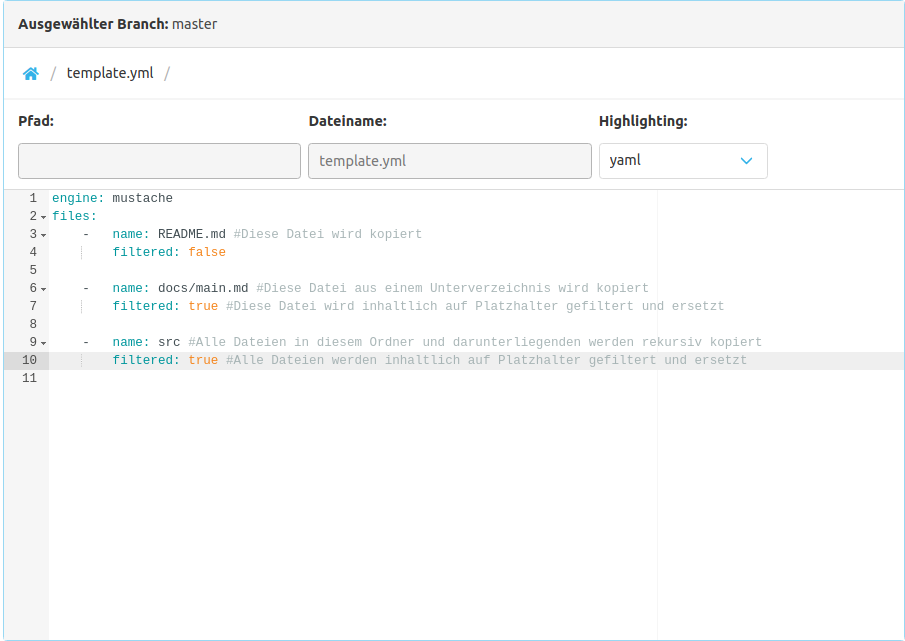
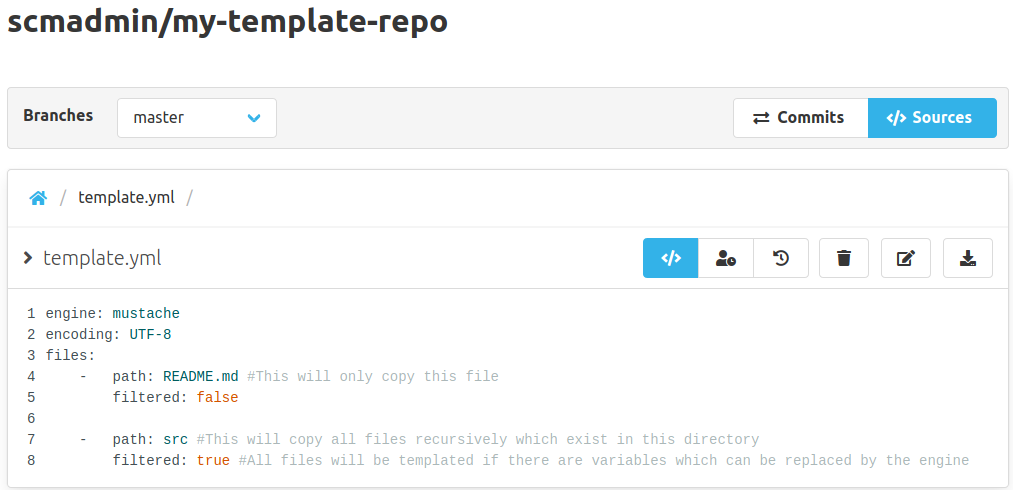
refactor

diff --git a/src/main/java/com/cloudogu/scm/repositorytemplate/RepositoryTemplater.java b/src/main/java/com/cloudogu/scm/repositorytemplate/RepositoryTemplater.java
@@ -23,16 +23,16 @@
  */
 package com.cloudogu.scm.repositorytemplate;
 
+import com.google.common.base.Strings;
+import lombok.AllArgsConstructor;
 import org.slf4j.Logger;
 import org.slf4j.LoggerFactory;
 import org.yaml.snakeyaml.Yaml;
 import org.yaml.snakeyaml.constructor.CustomClassLoaderConstructor;
-import org.yaml.snakeyaml.error.YAMLException;
 import sonia.scm.ContextEntry;
 import sonia.scm.NotFoundException;
 import sonia.scm.repository.BrowserResult;
 import sonia.scm.repository.FileObject;
-import sonia.scm.repository.InternalRepositoryException;
 import sonia.scm.repository.Repository;
 import sonia.scm.repository.RepositoryContentInitializer.InitializerContext;
 import sonia.scm.repository.api.RepositoryService;
@@ -49,7 +49,7 @@ import java.io.InputStream;
 import java.io.InputStreamReader;
 import java.io.OutputStreamWriter;
 import java.io.Reader;
-import java.nio.charset.StandardCharsets;
+import java.nio.charset.Charset;
 import java.util.Collections;
 import java.util.Optional;
 
@@ -72,9 +72,7 @@ public class RepositoryTemplater {
 
   public void render(Repository template, InitializerContext context) {
     this.context = context;
-    try (
-      RepositoryService templateService = repositoryServiceFactory.create(template);
-    ) {
+    try (RepositoryService templateService = repositoryServiceFactory.create(template)) {
       render(templateService);
     } catch (IOException e) {
       LOG.error("could not use template on new repository", e);
@@ -84,12 +82,22 @@ public class RepositoryTemplater {
   private void render(RepositoryService templateService) throws IOException {
     RepositoryTemplate repositoryTemplate = parseTemplateConfig(templateService);
     TemplateEngine engine = setupTemplateEngine(repositoryTemplate);
-    TemplateFilter templateFilter = new TemplateFilter(context, engine, templateService.getRepository());
+    String encoding = !Strings.isNullOrEmpty(repositoryTemplate.getEncoding()) ? repositoryTemplate.getEncoding() : "UTF-8";
+    TemplateFilter templateFilter = new TemplateFilter(new TemplateFilterModel(context.getRepository()), engine, encoding);
 
     for (RepositoryTemplateFile templateFile : repositoryTemplate.getFiles()) {
-      BrowserResult result = templateService.getBrowseCommand().setPath(templateFile.getName()).setRecursive(true).getBrowserResult();
+      String filePath = removeLeadingSlashOnFilepath(templateFile);
+      BrowserResult result = templateService.getBrowseCommand().setPath(filePath).setRecursive(true).getBrowserResult();
       copyFileRecursively(templateService, templateFilter, templateFile, result.getFile());
     }
+  }
+
+  private String removeLeadingSlashOnFilepath(RepositoryTemplateFile templateFile) {
+    String filePath = templateFile.getPath();
+    if (templateFile.getPath().startsWith("/")) {
+      filePath = templateFile.getPath().substring(1);
+    }
+    return filePath;
   }
 
   private void copyFileRecursively(RepositoryService templateService, TemplateFilter filter, RepositoryTemplateFile templateFile, FileObject file) throws IOException {
@@ -151,37 +159,50 @@ public class RepositoryTemplater {
   private RepositoryTemplate unmarshallRepositoryTemplate(String templateFile, InputStream templateYml) {
     RepositoryTemplate repositoryTemplate = yaml.loadAs(templateYml, RepositoryTemplate.class);
     if (repositoryTemplate == null) {
-      throw new YAMLException("repository template invalid -> could not parse " + templateFile);
+      throwTemplateParsingException(templateFile);
     }
     return repositoryTemplate;
+
+  }
+
+  private void throwTemplateParsingException(String templateFile) {
+    throw new TemplateParsingException(
+      ContextEntry.ContextBuilder.entity(RepositoryTemplate.class, templateFile).build(),
+      "repository template invalid -> could not parse " + templateFile
+    );
   }
 
   static class TemplateFilter {
-    private final InitializerContext context;
+    private final TemplateFilterModel model;
     private final TemplateEngine engine;
-    private final Repository templateRepository;
+    private final String encoding;
 
-    private TemplateFilter(InitializerContext context, TemplateEngine engine, Repository templateRepository) {
-      this.context = context;
+    private TemplateFilter(TemplateFilterModel model, TemplateEngine engine, String encoding) {
+      this.model = model;
       this.engine = engine;
-      this.templateRepository = templateRepository;
+      this.encoding = encoding;
     }
 
     private ByteArrayOutputStream filter(InputStream inputStream, String filePath) {
       try (Reader content = new InputStreamReader(inputStream)) {
         Template template = engine.getTemplate(filePath, content);
         ByteArrayOutputStream baos = new ByteArrayOutputStream();
-        OutputStreamWriter writer = new OutputStreamWriter(baos, StandardCharsets.UTF_8);
-        template.execute(writer, context.getRepository());
+        OutputStreamWriter writer = new OutputStreamWriter(baos, Charset.forName(encoding));
+        template.execute(writer, model);
         writer.flush();
         return baos;
       } catch (IOException ex) {
-        throw new InternalRepositoryException(
-          ContextEntry.ContextBuilder.entity(Repository.class, templateRepository.getId()),
-          "could not read file from repository: " + filePath,
+        throw new TemplateRenderingException(
+          ContextEntry.ContextBuilder.entity(RepositoryTemplateFile.class, filePath).build(),
+          "could not template " + filePath,
           ex
         );
       }
     }
+  }
+
+  @AllArgsConstructor
+  static class TemplateFilterModel {
+    private final Repository repository;
   }
 }

diff --git a/src/test/java/com/cloudogu/scm/repositorytemplate/RepositoryTemplatedContentInitializerTest.java b/src/test/java/com/cloudogu/scm/repositorytemplate/RepositoryTemplatedContentInitializerTest.java
@@ -23,8 +23,6 @@
  */
 package com.cloudogu.scm.repositorytemplate;
 
-import com.fasterxml.jackson.databind.JsonNode;
-import com.fasterxml.jackson.databind.node.TextNode;
 import org.junit.jupiter.api.Test;
 import org.junit.jupiter.api.extension.ExtendWith;
 import org.mockito.InjectMocks;
@@ -36,9 +34,9 @@ import sonia.scm.repository.RepositoryContentInitializer;
 import sonia.scm.repository.RepositoryManager;
 import sonia.scm.repository.RepositoryTestData;
 
-import java.util.HashMap;
-import java.util.Map;
+import java.util.Optional;
 
+import static com.cloudogu.scm.repositorytemplate.RepositoryTemplatedContentInitializer.TemplateContext;
 import static org.mockito.Mockito.verify;
 import static org.mockito.Mockito.when;
 
@@ -59,10 +57,8 @@ class RepositoryTemplatedContentInitializerTest {
 
   @Test
   void shouldInitializeRepository() {
-    Map<String, JsonNode> creationContext = new HashMap<>();
-    TextNode templateId = new TextNode("hitchhiker/heartOfGold");
-    creationContext.put("templateId", templateId);
-    when(context.getCreationContext()).thenReturn(creationContext);
+    TemplateContext templateContext = new TemplateContext("hitchhiker/heartOfGold");
+    when(context.getCreationContext("templateId", TemplateContext.class)).thenReturn(Optional.of(templateContext));
     when(repositoryManager.get(new NamespaceAndName("hitchhiker", "heartOfGold"))).thenReturn(TEMPLATE_REPOSITORY);
 
     initializer.initialize(context);

diff --git a/src/main/java/com/cloudogu/scm/repositorytemplate/RepositoryTemplatedContentInitializer.java b/src/main/java/com/cloudogu/scm/repositorytemplate/RepositoryTemplatedContentInitializer.java
@@ -24,6 +24,8 @@
 package com.cloudogu.scm.repositorytemplate;
 
 import com.fasterxml.jackson.databind.node.TextNode;
+import lombok.AllArgsConstructor;
+import lombok.Getter;
 import sonia.scm.plugin.Extension;
 import sonia.scm.repository.NamespaceAndName;
 import sonia.scm.repository.Repository;
@@ -47,17 +49,18 @@ public class RepositoryTemplatedContentInitializer implements RepositoryContentI
 
   @Override
   public void initialize(InitializerContext context) {
-    TextNode repositoryModel = (TextNode) context.getCreationContext().get("templateId");
-    if (repositoryModel != null) {
-      String[] splitRepository = repositoryModel.asText().split("/");
+    Optional<TemplateContext> repositoryModel = context.getCreationContext("templateId", TemplateContext.class);
+    if (repositoryModel.isPresent()) {
+      String[] splitRepository = repositoryModel.get().getNamespaceAndName().split("/");
       Repository templateRepository = repositoryManager.get(new NamespaceAndName(splitRepository[0], splitRepository[1]));
       templater.render(templateRepository, context);
     }
   }
 
-  @Override
-  public Optional<Class<?>> getType() {
-    // We will need this later if we add more fields to the templateFilterModel
-    return Optional.empty();
+  @Getter
+  @AllArgsConstructor
+  static
+  class TemplateContext {
+    private String namespaceAndName;
   }
 }

diff --git a/src/main/java/com/cloudogu/scm/repositorytemplate/RepositoryTemplateCollector.java b/src/main/java/com/cloudogu/scm/repositorytemplate/RepositoryTemplateCollector.java
@@ -114,15 +114,13 @@ public class RepositoryTemplateCollector {
   }
 
   private boolean wasTemplateFileEffected(PostReceiveRepositoryHookEvent event, RepositoryService repositoryService) throws IOException {
-    boolean clearCache = false;
     for (Changeset changeset : event.getContext().getChangesetProvider().getChangesets()) {
       List<String> changedFiles = repositoryService.getModificationsCommand().revision(changeset.getId()).getModifications().getEffectedPaths();
-      clearCache = changedFiles.contains(TEMPLATE_YML) || changedFiles.contains(TEMPLATE_YAML);
-      if (clearCache) {
-        break;
+      if (changedFiles.contains(TEMPLATE_YML) || changedFiles.contains(TEMPLATE_YAML)) {
+        return true;
       }
     }
-    return clearCache;
+    return false;
   }
 
   private void filterTemplatesByUserPermission(Collection<RepositoryTemplate> repositoryTemplates) {

diff --git a/src/main/java/com/cloudogu/scm/repositorytemplate/TemplateRenderingException.java b/src/main/java/com/cloudogu/scm/repositorytemplate/TemplateRenderingException.java
@@ -23,16 +23,21 @@
  */
 package com.cloudogu.scm.repositorytemplate;
 
-import lombok.AllArgsConstructor;
-import lombok.Getter;
-import lombok.NoArgsConstructor;
-import lombok.Setter;
+import sonia.scm.ContextEntry;
+import sonia.scm.ExceptionWithContext;
 
-@AllArgsConstructor
-@NoArgsConstructor
-@Getter
-@Setter
-public class RepositoryTemplateFile {
-  private String path;
-  private boolean filtered;
+import java.util.List;
+
+public class TemplateRenderingException extends ExceptionWithContext {
+
+  private static final String CODE = "4JSA4ucU51";
+
+  public TemplateRenderingException(List<ContextEntry> context, String message, Exception cause) {
+    super(context, message, cause);
+  }
+
+  @Override
+  public String getCode() {
+    return CODE;
+  }
 }

diff --git a/src/main/java/com/cloudogu/scm/repositorytemplate/TemplateParsingException.java b/src/main/java/com/cloudogu/scm/repositorytemplate/TemplateParsingException.java
@@ -23,16 +23,21 @@
  */
 package com.cloudogu.scm.repositorytemplate;
 
-import lombok.AllArgsConstructor;
-import lombok.Getter;
-import lombok.NoArgsConstructor;
-import lombok.Setter;
+import sonia.scm.ContextEntry;
+import sonia.scm.ExceptionWithContext;
 
-@AllArgsConstructor
-@NoArgsConstructor
-@Getter
-@Setter
-public class RepositoryTemplateFile {
-  private String path;
-  private boolean filtered;
+import java.util.List;
+
+public class TemplateParsingException extends ExceptionWithContext {
+
+  private static final String CODE = "ErSA4q8eJ1";
+
+  public TemplateParsingException(List<ContextEntry> context, String message) {
+    super(context, message);
+  }
+
+  @Override
+  public String getCode() {
+    return CODE;
+  }
 }

diff --git a/src/test/java/com/cloudogu/scm/repositorytemplate/RepositoryTemplateCollectorTest.java b/src/test/java/com/cloudogu/scm/repositorytemplate/RepositoryTemplateCollectorTest.java
@@ -179,8 +179,8 @@ class RepositoryTemplateCollectorTest {
     assertThat(templates).hasSize(1);
     RepositoryTemplate template = templates.iterator().next();
     assertThat(template.getEngine()).isEqualTo("hitchhiker");
-    assertThat(template.getFiles().get(0).getName()).isEqualTo(".gitignore");
-    assertThat(template.getFiles().get(1).getName()).isEqualTo("Jenkinsfile");
+    assertThat(template.getFiles().get(0).getPath()).isEqualTo(".gitignore");
+    assertThat(template.getFiles().get(1).getPath()).isEqualTo("Jenkinsfile");
     assertThat(template.getNamespaceAndName()).isEqualTo(REPOSITORY.getNamespaceAndName().toString());
   }
 

diff --git a/src/test/java/com/cloudogu/scm/repositorytemplate/RepositoryTemplaterTest.java b/src/test/java/com/cloudogu/scm/repositorytemplate/RepositoryTemplaterTest.java
@@ -102,10 +102,10 @@ class RepositoryTemplaterTest {
   }
 
   @Test
-  void shouldThrowYamlExceptionIfTemplateFileCouldNotBeParsed() throws IOException {
+  void shouldThrowTemplateParsingExceptionIfTemplateFileCouldNotBeParsed() throws IOException {
     mockTemplateService("com/cloudogu/scm/repositorytemplate/empty_template.yml");
 
-    assertThrows(YAMLException.class, () -> repositoryTemplater.render(TEMPLATE_REPOSITORY, context));
+    assertThrows(TemplateParsingException.class, () -> repositoryTemplater.render(TEMPLATE_REPOSITORY, context));
   }
 
   @Test

diff --git a/src/main/java/com/cloudogu/scm/repositorytemplate/RepositoryTemplateFinder.java b/src/main/java/com/cloudogu/scm/repositorytemplate/RepositoryTemplateFinder.java
@@ -49,8 +49,8 @@ public class RepositoryTemplateFinder {
 
   private static boolean fileExists(RepositoryService repositoryService, String templateYml) throws IOException {
     try {
-    return repositoryService.getBrowseCommand().setPath(templateYml).getBrowserResult() != null; }
-    catch (NotFoundException e) {
+      return repositoryService.getBrowseCommand().setPath(templateYml).getBrowserResult() != null;
+    } catch (NotFoundException e) {
       return false;
     }
   }

diff --git a/src/main/java/com/cloudogu/scm/repositorytemplate/RepositoryTemplate.java b/src/main/java/com/cloudogu/scm/repositorytemplate/RepositoryTemplate.java
@@ -35,6 +35,7 @@ import java.util.List;
 public class RepositoryTemplate {
   private String namespaceAndName;
   private String engine;
+  private String encoding;
   private List<RepositoryTemplateFile> files;
 
   public RepositoryTemplate(String namespaceAndName) {

diff --git a/docs/de/usage/index.md b/docs/de/usage/index.md
@@ -3,12 +3,31 @@ title: Usage
 ---
 Um ein Repository als Vorlage nutzen zu können, muss innerhalb des Repository eine `template.yml` 
 im Root Verzeichnis des Main Branches angelegt werden. Diese `template.yml` definiert welche Dateien 
-aus dem Vorlage-Repository kopiert werden sollen und welche Engine zum Verarbeiten des Dateiinhalts werden soll. Die Engine
-ersetzt Platzhalter beim Kopieren durch den entsprechenden Wert aus dem Kontext. 
-Die Standard Engine ist [mustache](https://mustache.github.io/) falls keine andere ausgewählt wurde.
+aus dem Vorlage-Repository kopiert werden sollen und welche Engine zum Verarbeiten des Dateiinhalts verwendet werden soll. 
+Die Engine ersetzt Platzhalter beim Kopieren durch den entsprechenden Wert aus dem Kontext. 
+
+Die Standard Engine ist [mustache](https://mustache.github.io/) und das Standard Encoding ist `UTF-8`, 
+falls keine andere Werte gesetzt wurde.
+
+Die Template Yaml muss ein Feld `files` enthalten, wo Dateien als Array angegeben werden.
+Eine einzelne Datei muss die Felder `path` (Pfad innerhalb des Vorlagen-Repository) 
+und `filtered` (soll der Inhalt der Datei templated werden). Wird bei `path` ein Verzeichnis angegeben, 
+werden alle Datei innerhalb dieses Verzeichnisses kopiert und getemplated.
+Optional können noch eine Template Engine und ein Encoding angegeben werden.
+
+Beispiel:
+```yaml 
+engine: mustache
+encoding: UTF-8
+files: 
+    -   path: README.md
+        filtered: true
+    -   path: src/main
+        filtered: false
+```
 
 ![Template](assets/template.png)
 
-Nachdem ein Repository als Vorlage definiert wurde, kann man für die Initialisierung bei der Repository Erstellung auswählen.
+Nachdem ein Repository als Vorlage definiert wurde, kann man es für die Initialisierung bei der Repository Erstellung auswählen.
 
 ![Create repository](assets/create-repo.png)

diff --git a/docs/en/usage/index.md b/docs/en/usage/index.md
@@ -5,7 +5,23 @@ To use a repository as a template you must simply add a `template.yml` file to t
 This `template.yml` defines which files should be copied from the template to the target repository 
 and if their content should be templated using a template engine. 
 
-The default template engine is [mustache](https://mustache.github.io/) if no engine is defined.
+The default template engine is [mustache](https://mustache.github.io/) and the default encoding is `UTF-8` if nothing else is defined.
+
+The template yaml must contain a field `files` with contains all files as an array.
+Each file must have the fields `path` (file path in repository) and `filtered` (should file content be templated)
+If you use a directory path all files inside will be copied and templated (if set true).
+Additional you may choose a custom template engine or another encoding. 
+
+Example:
+```yaml 
+engine: mustache
+encoding: UTF-8
+files: 
+    -   path: README.md
+        filtered: true
+    -   path: src/main
+        filtered: false
+```
 
 ![Template](assets/template.png)
 
